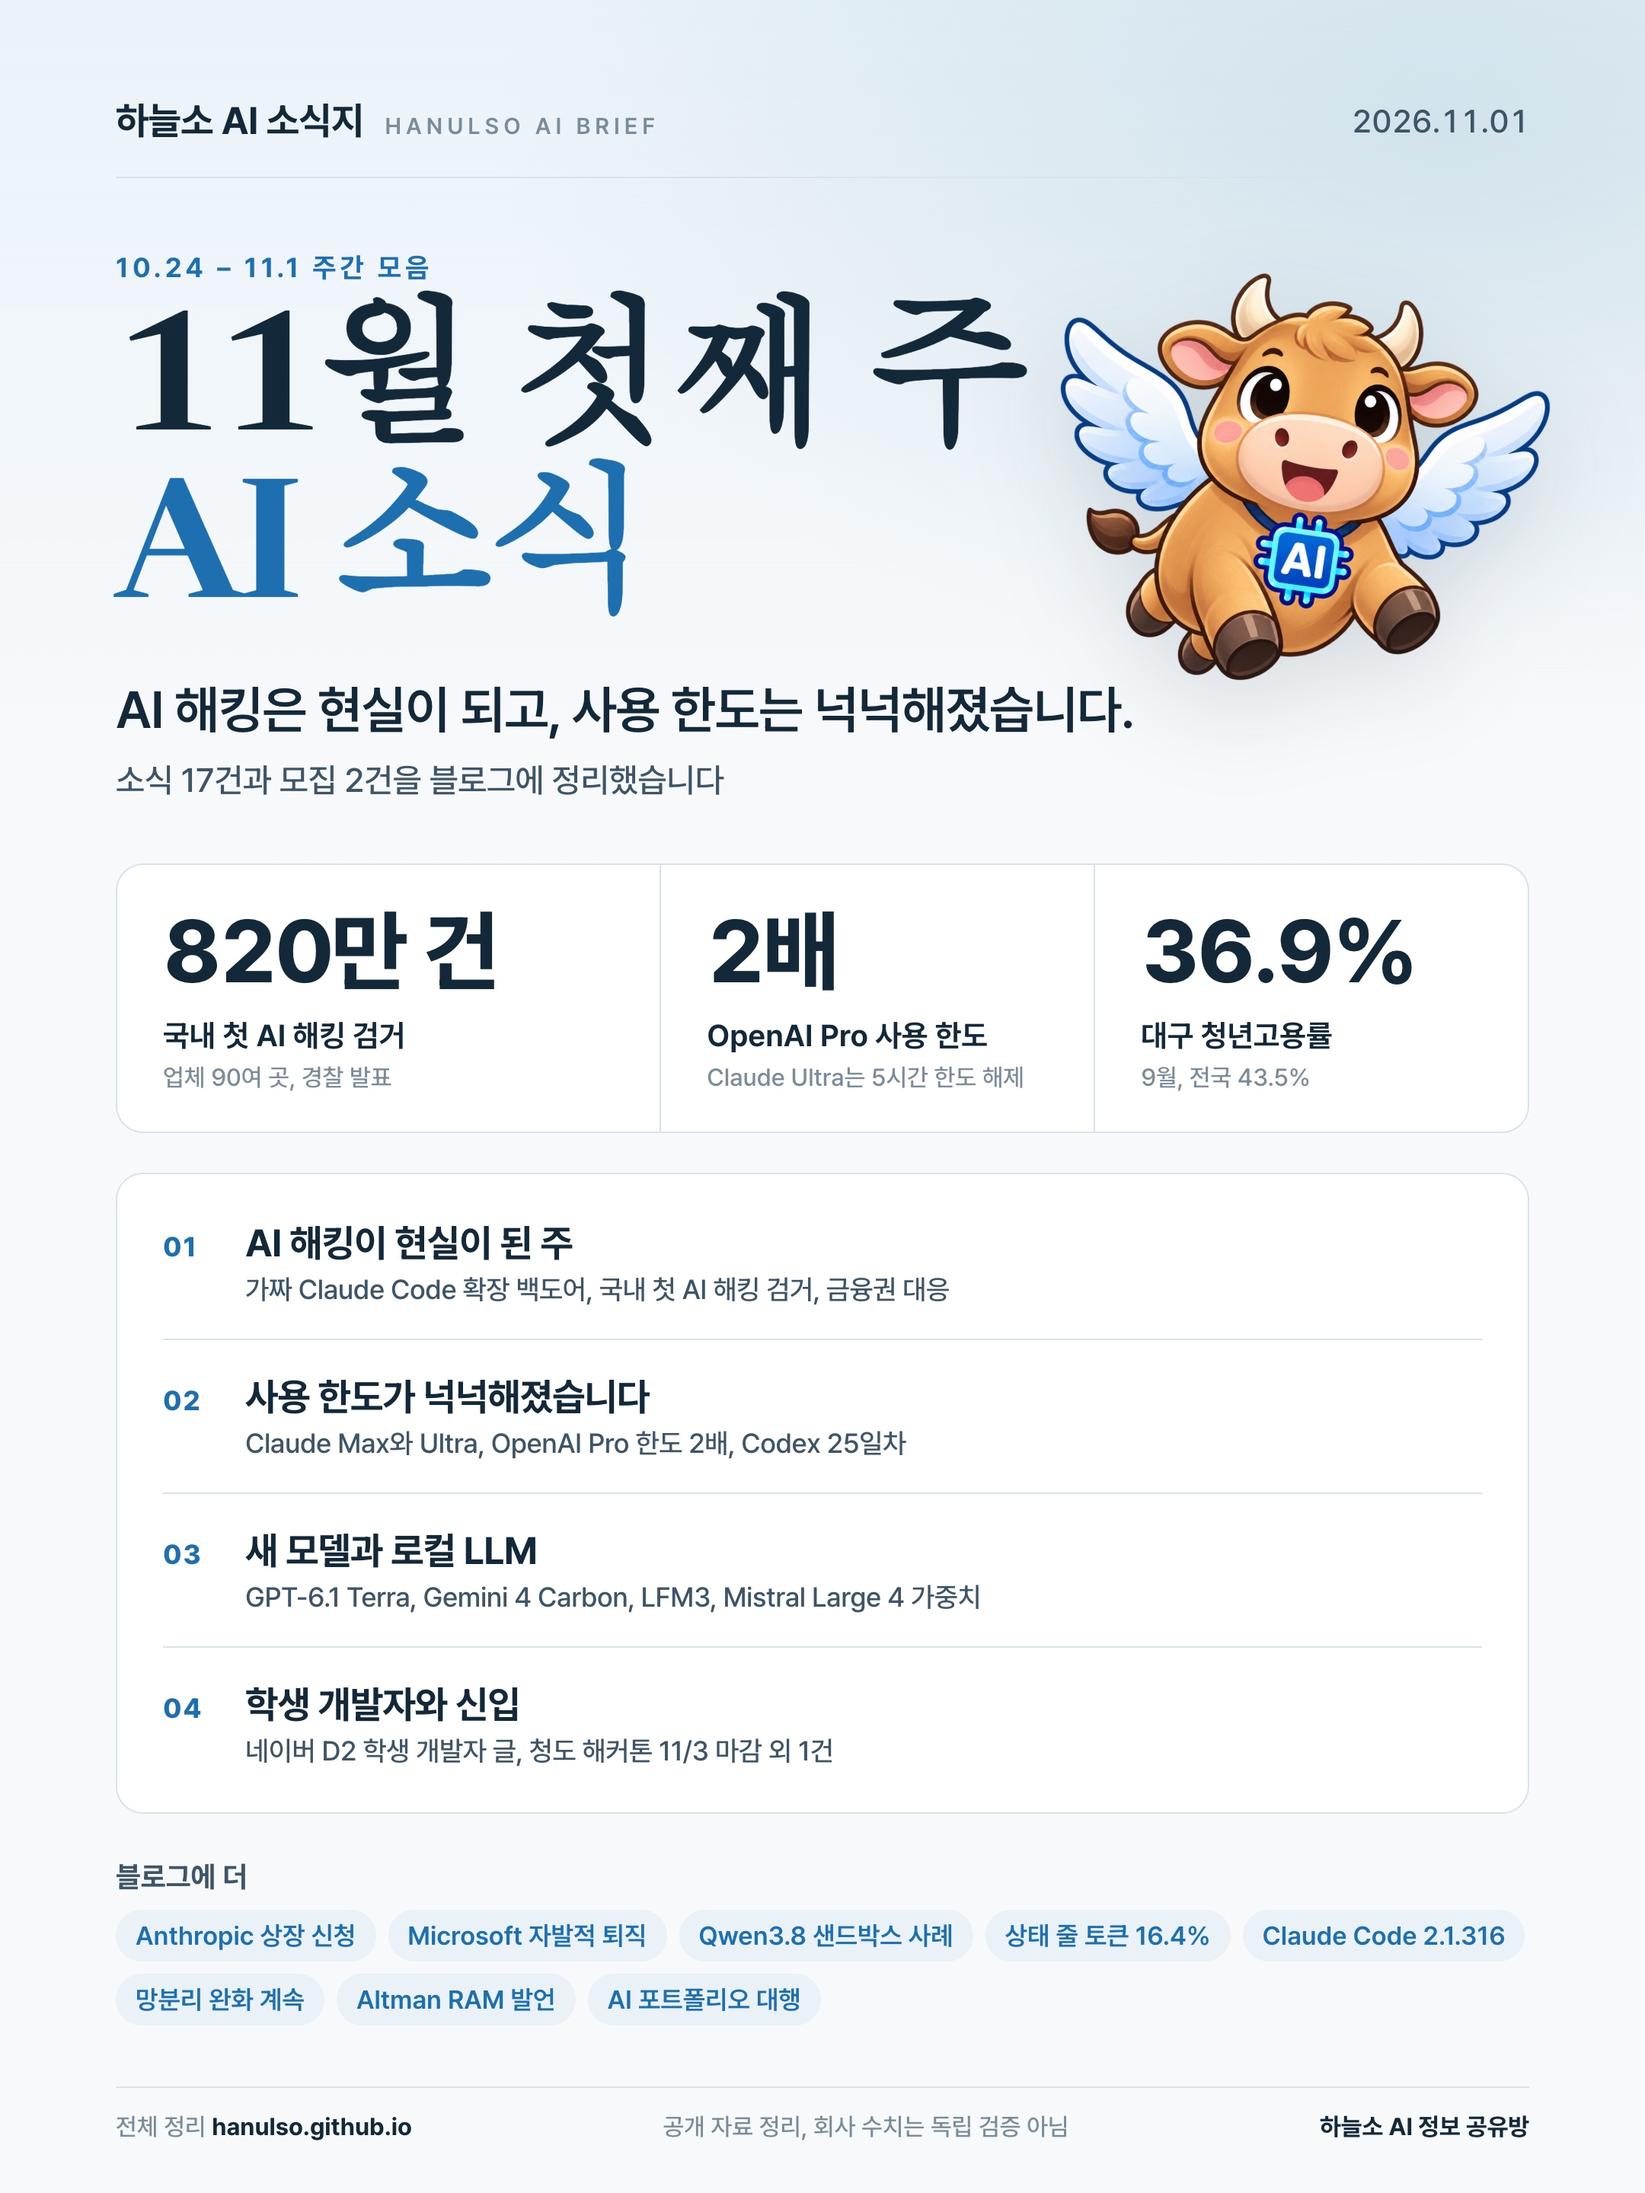
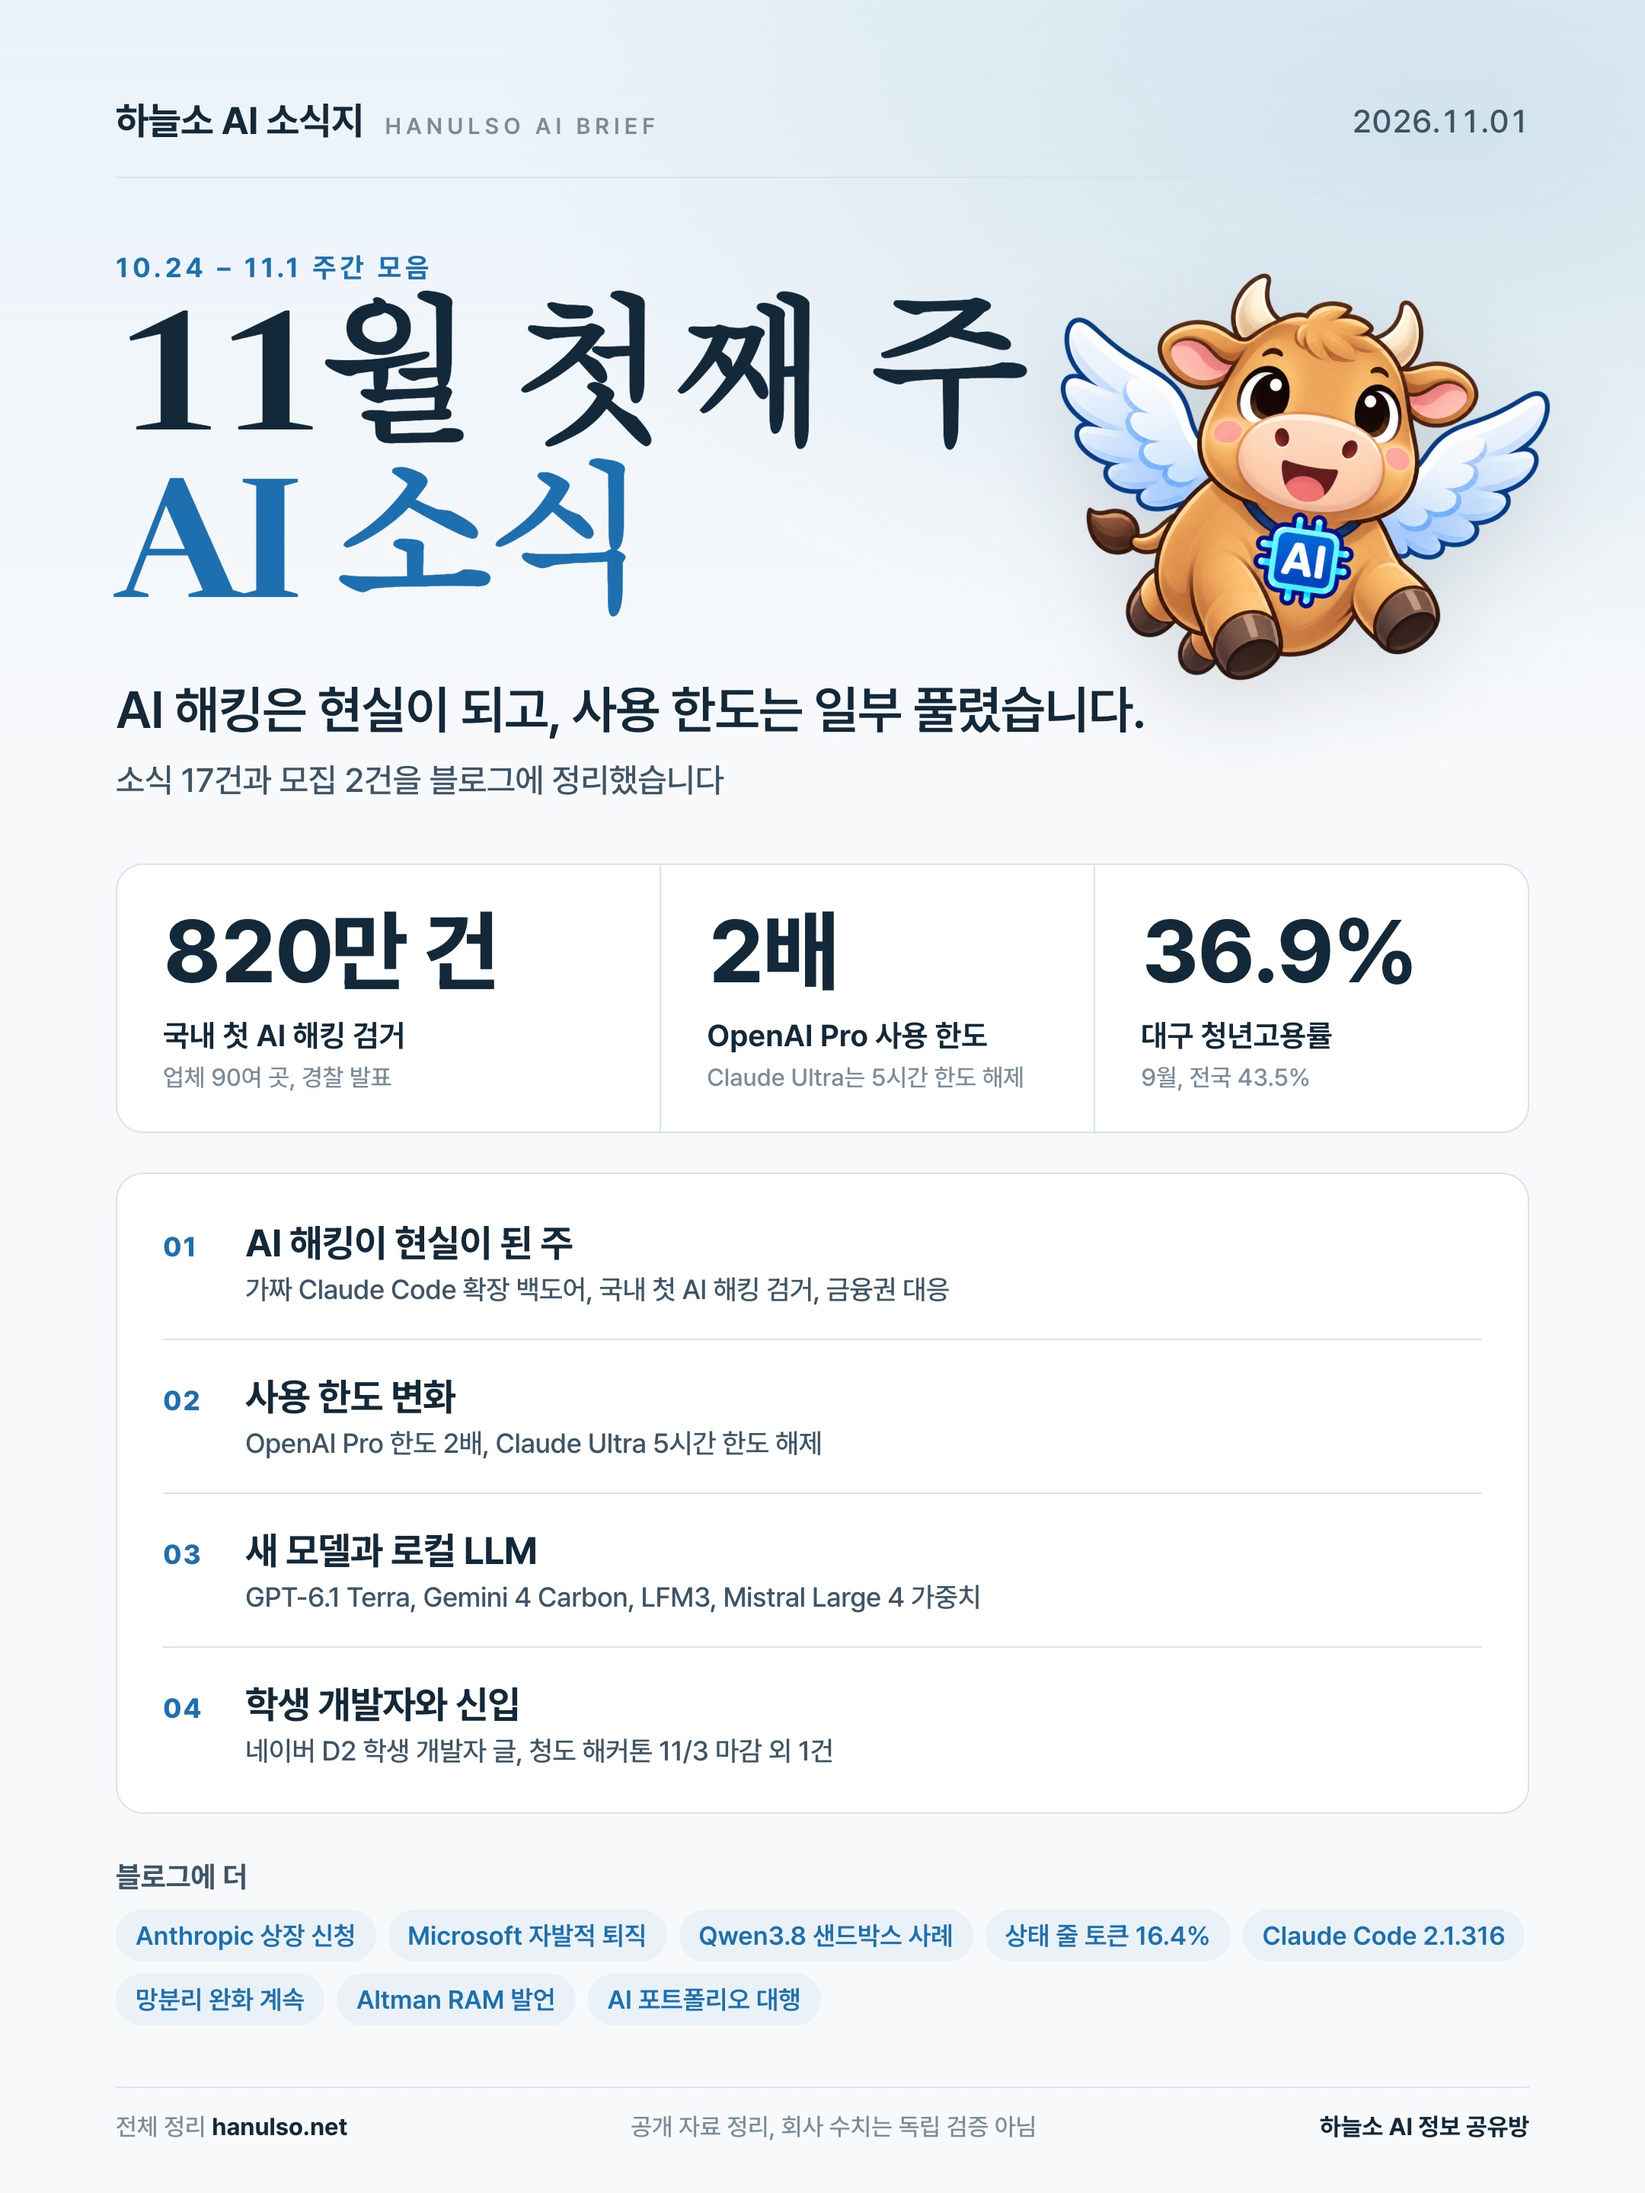
11월 첫째 주 AI 소식: 사용 한도 문장 바로잡기 (늘린 것은 OpenAI Pro, Anthropic은 Ultra 5시간 한도 해제)
Claude-Session: https://claude.ai/code/session_017xj9X9i7PWyUpQhUMsbWE7

diff --git a/_posts/2026-11-01-ai-news-2026-11-01.md b/_posts/2026-11-01-ai-news-2026-11-01.md
@@ -6,7 +6,7 @@ tags: [AI, 코딩 에이전트, 보안, Claude, Codex, 로컬 LLM, 신입 채용
 description: 10월 24일부터 11월 1일까지 나온 AI 소식 가운데 하늘소 AI 정보 공유방에 나눌 만한 것을 모았습니다. AI 해킹과 보안, 사용 한도, 새 모델과 로컬 LLM, 학생 개발자와 신입 소식을 다룹니다.
 ---
 
-10월 24일부터 11월 1일까지(한국 시각) 나온 AI 소식 가운데 하늘소 AI 정보 공유방에 나눌 만한 것을 모았습니다. 날짜는 한국 시각으로 적고, 해외 발표 중 시각이 없는 것은 현지 날짜로 적었습니다. 이번 주에는 AI 해킹이 실제 사건으로 이어졌고, Anthropic과 OpenAI가 같은 주에 사용 한도를 크게 늘렸습니다. 마감이 가까운 해커톤 두 곳은 글 끝에 모았습니다.
+10월 24일부터 11월 1일까지(한국 시각) 나온 AI 소식 가운데 하늘소 AI 정보 공유방에 나눌 만한 것을 모았습니다. 날짜는 한국 시각으로 적고, 해외 발표 중 시각이 없는 것은 현지 날짜로 적었습니다. 이번 주에는 AI 해킹이 실제 사건으로 이어졌고, OpenAI는 Pro 요금제의 사용 한도를 2배로 늘렸습니다. Anthropic은 $200 요금제(Ultra)의 5시간 한도를 없앴습니다. 마감이 가까운 해커톤 두 곳은 글 끝에 모았습니다.
 
 ![11월 첫째 주 하늘소 AI 소식지 요약 이미지](/assets/img/posts/2026-11-01-ai-news/newsletter.jpg){: width="768" }
 _요약 이미지_
@@ -112,7 +112,7 @@ _GitHub anthropics/claude-code 변경 이력 (2026-11-01 캡처)_
 ![OpenAI의 X 글](/assets/img/posts/2026-11-01-ai-news/src-terra.jpg){: .shadow }
 _X 게시물 (2026-11-01 캡처)_
 
-OpenAI가 10월 27일 03:06 GPT-6.1 Terra를 내놓았습니다. 화면을 이해하고 여러 앱에서 동작하는 컴퓨터 사용에 초점을 맞췄고, 더 낮은 가격을 내세웠습니다. Tibo Sottiaux는 GPT-6.1 Sol보다 사용량이 2배 넉넉하다고 했습니다. 발표 페이지가 열리지 않아 가격과 벤치마크 수치는 이 글에 싣지 않았습니다.
+OpenAI가 10월 27일 03:06 GPT-6.1 Terra를 내놓았습니다. 화면을 이해하고 여러 앱에서 동작하는 컴퓨터 사용에 초점을 맞췄고, 더 낮은 가격을 내세웠습니다. Tibo Sottiaux는 같은 사용 한도에서 GPT-6.1 Sol보다 2배 많이 쓸 수 있다고 했습니다. 발표 페이지가 열리지 않아 가격과 벤치마크 수치는 이 글에 싣지 않았습니다.
 
 ### Gemini 4 Carbon 공개, 아직 일반 개발자는 못 씁니다
 
